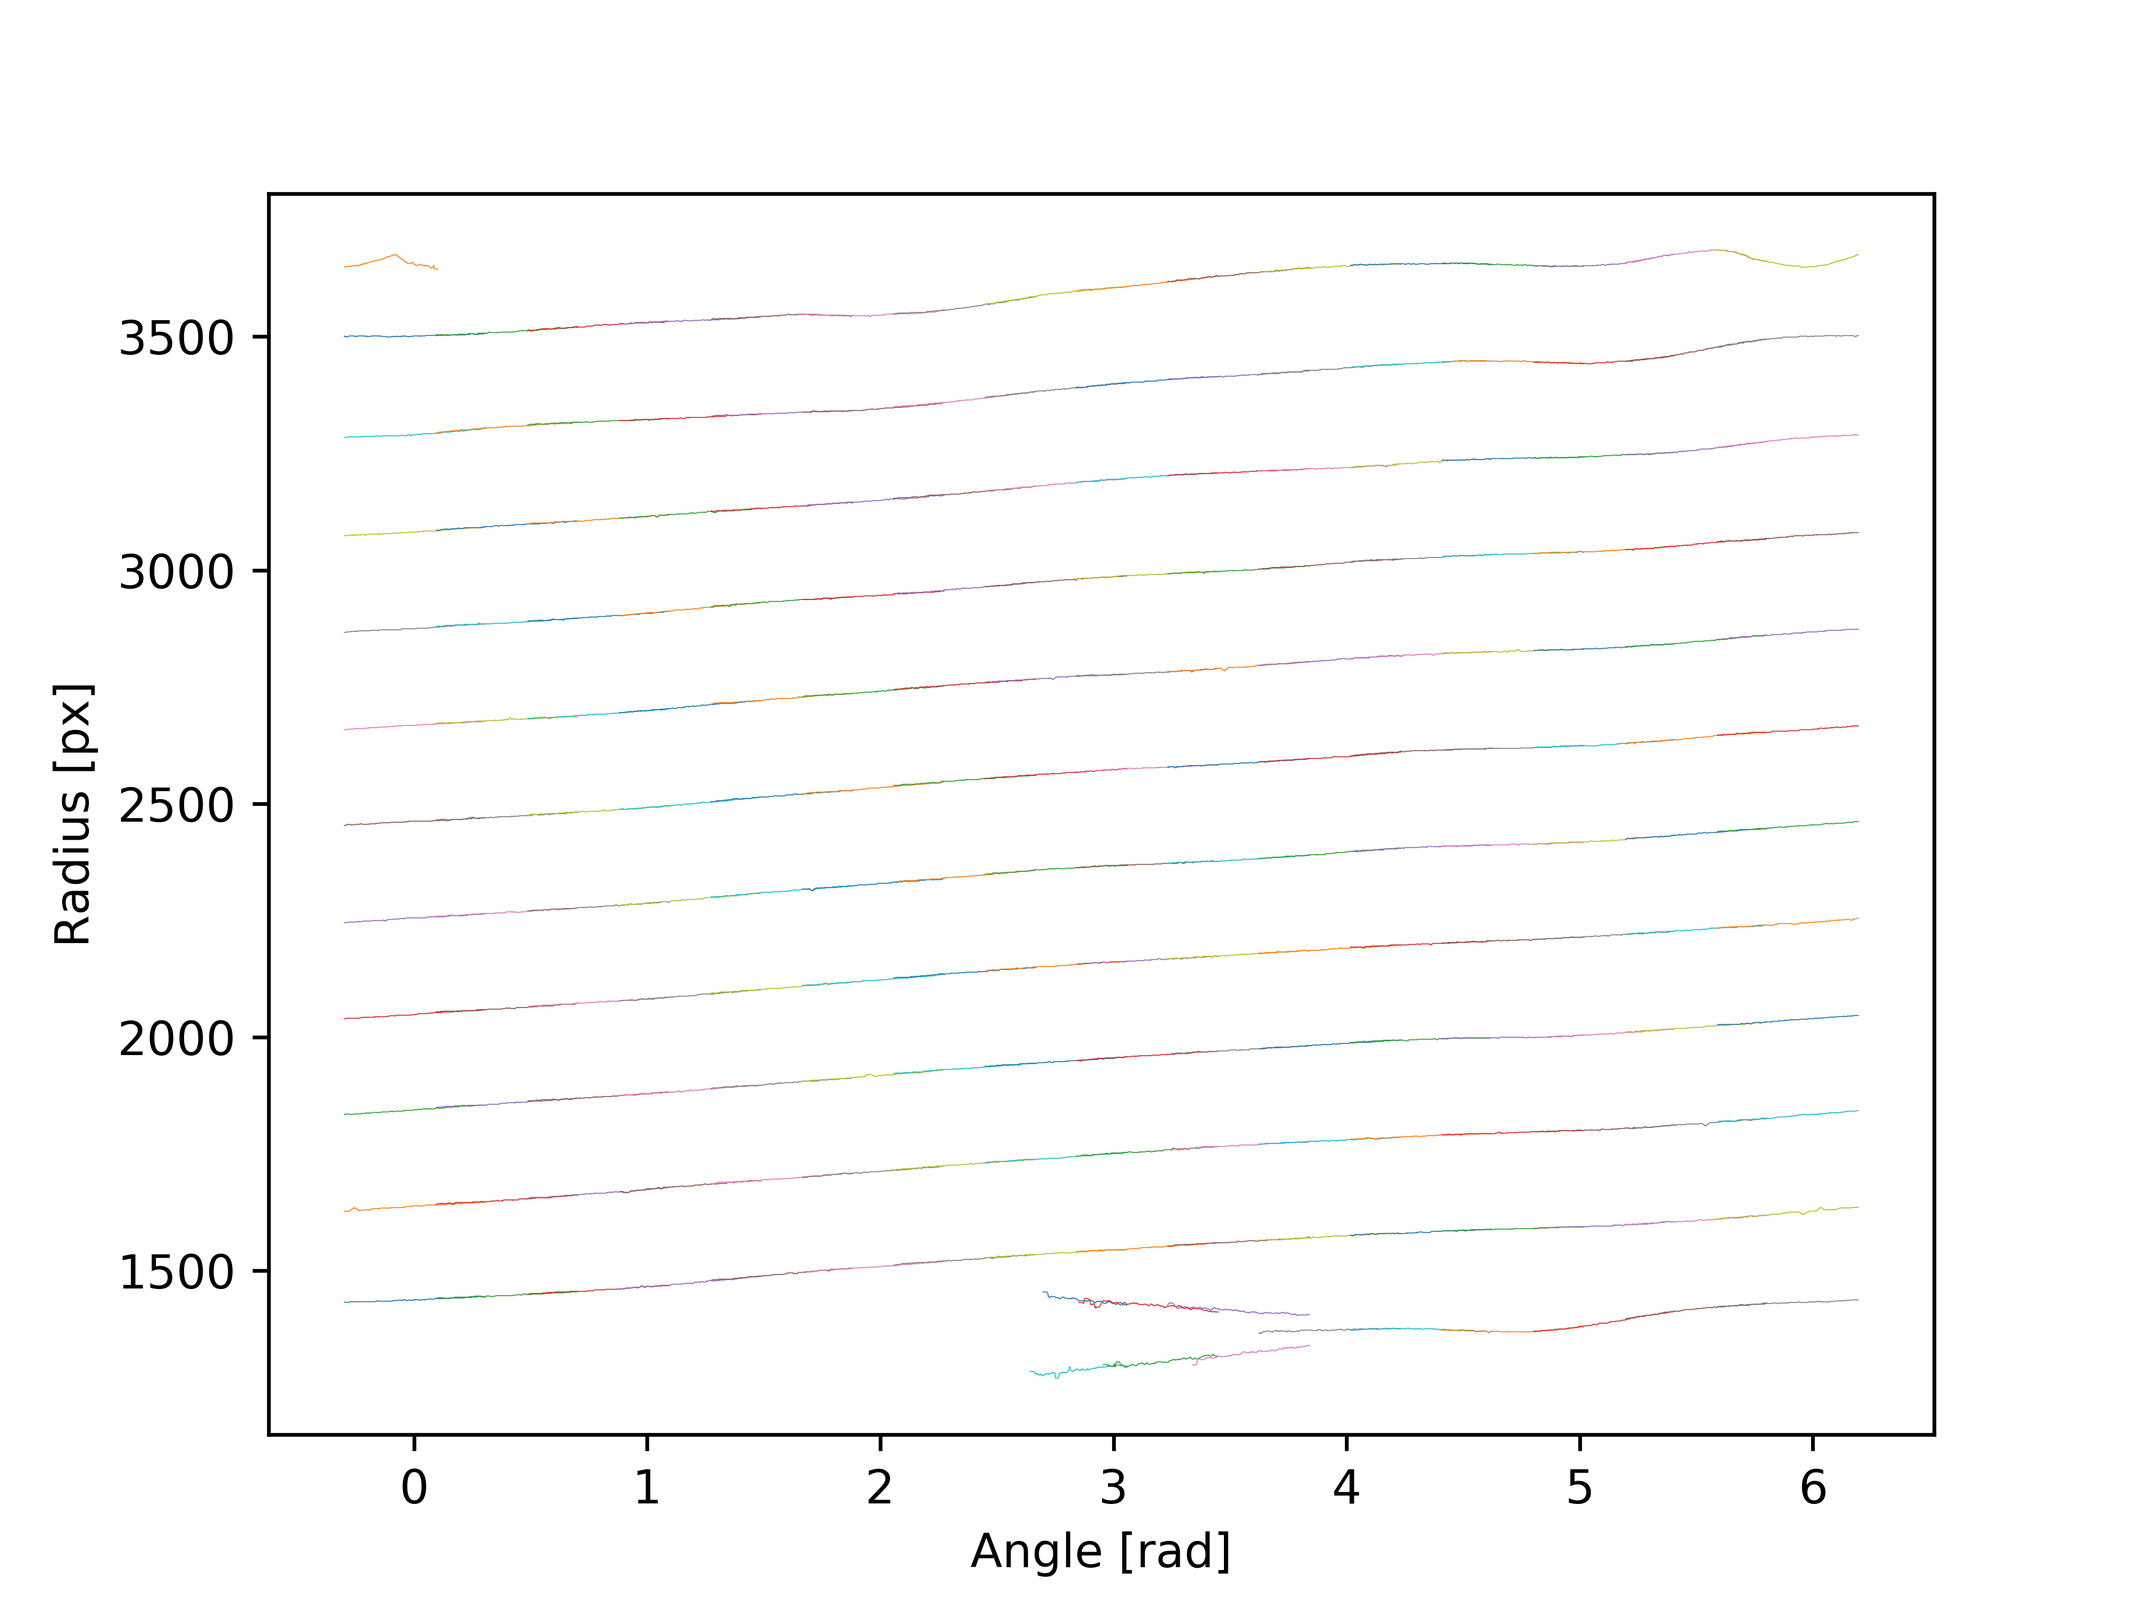
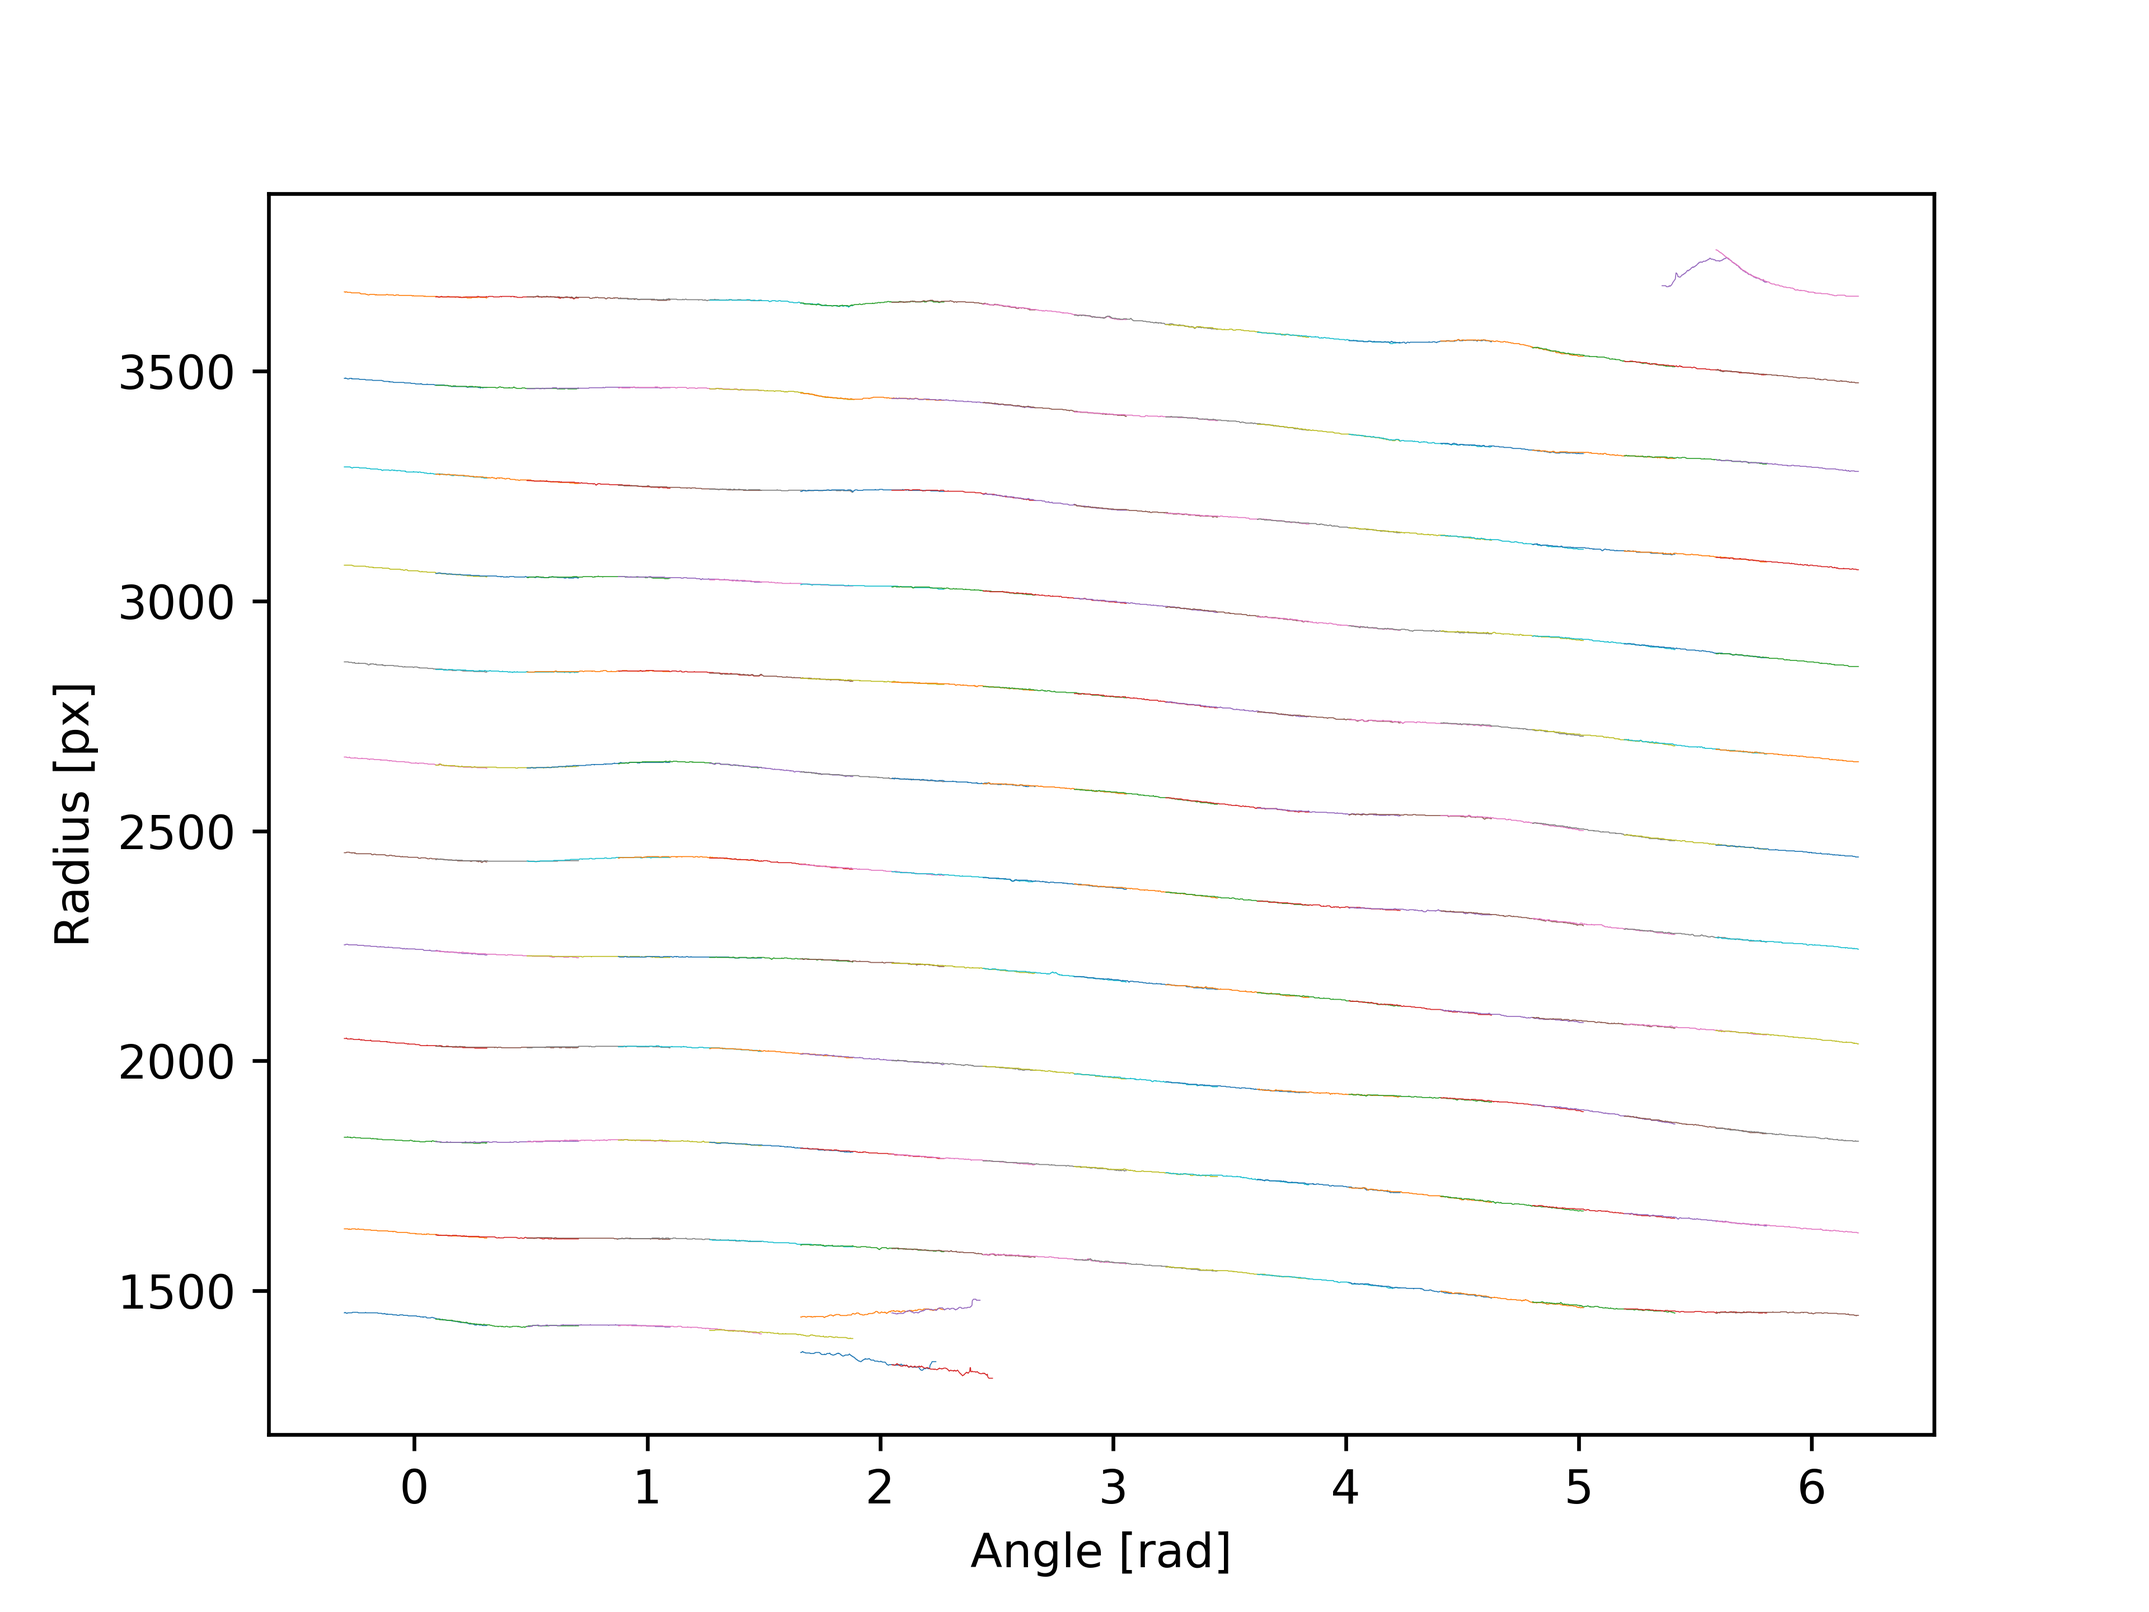
Major Calibration Improvements

diff --git a/sectorImage/core/calibration.py b/sectorImage/core/calibration.py
@@ -72,19 +72,39 @@ class Calibrator:
         src = src.astype(np.uint8, copy=False)
         # print('Blurring')
         im = np.empty(np.shape(src), np.uint8)
+
+        inversionMapping = True
+        if inversionMapping:
+            # c_estimate = (src.shape[1], src.shape[0] // 2)
+            dx = 650
+            c_estimate = (src.shape[1] + dx, src.shape[0] // 2)
+            src = cv2.linearPolar(src, c_estimate, src.shape[1] + dx, cv2.WARP_FILL_OUTLIERS)
+
         # Gaussian Blur to remove fast features
         kernelsize = 5
-        sigma = 5
+        sigma = 1.0
         cv2.GaussianBlur(src=src, ksize=(kernelsize, kernelsize), dst=im, sigmaX=sigma, sigmaY=sigma)
 
         # print('Convolving')
         # Convolving with kernel
-        kheight = 21
+        kheight = 3
         prewitt_kernel_x = np.array([[-1, 0, 1]] * kheight)
-        im = im.astype(np.int16, copy=False)
 
-        # cv2.threshold(src=im, dst=im, thresh=210, maxval=255, type=cv2.THRESH_TOZERO)[1]
+        im = im.astype(np.int16, copy=False)
+        if not inversionMapping:
+            im_y = np.empty(np.shape(src), np.int16)
+            cv2.filter2D(src=im, kernel=np.transpose(prewitt_kernel_x), dst=im_y, ddepth=-1)
+
         cv2.filter2D(src=im, kernel=prewitt_kernel_x, dst=im, ddepth=-1)
+
+        if not inversionMapping:
+            scaling = np.max(im) / np.max(im_y)
+            im += (np.abs(im_y) * scaling).astype(np.int16, copy=False)
+            del im_y
+        else:
+
+            im = cv2.linearPolar(im, c_estimate, im.shape[1] + dx, cv2.WARP_INVERSE_MAP)
+            im *= -1
 
         # cv2.threshold(src=im, dst=im, thresh=0, maxval=255, type=cv2.THRESH_TOZERO)[1]
         # np.abs(im, out=im)
@@ -95,42 +115,96 @@ class Calibrator:
         # thresh = mean_val + 3 * std_val
         thresh = 2 * std_val
         # im *= -1
-        filtered = np.copy(im)
+
         cv2.threshold(src=im, dst=im, thresh=thresh, maxval=1, type=cv2.THRESH_BINARY)
-        morph_kernel = np.ones((5, 5), np.uint8)
-        cv2.morphologyEx(src=im, dst=im, op=cv2.MORPH_OPEN, iterations=1, kernel=morph_kernel)
-        cv2.morphologyEx(src=im, dst=im, op=cv2.MORPH_CLOSE, iterations=1, kernel=morph_kernel)
+
+        # morph_kernel = np.ones((5, 5), np.uint8)
+        filtered = np.copy(im)
+        # morph_kernel_small = np.ones((3, 3), np.uint8)
+        #cv2.morphologyEx(src=im, dst=im, op=cv2.MORPH_OPEN, iterations=1, kernel=morph_kernel)
+        #cv2.morphologyEx(src=im, dst=im, op=cv2.MORPH_CLOSE, iterations=1, kernel=morph_kernel)
+
+        im = im.astype(np.uint8, copy=False)
+        # im = self.skeletonize(im)
+        # cv2.morphologyEx(src=im, dst=im, op=cv2.MORPH_CLOSE, iterations=1, kernel=morph_kernel)
+        #cv2.morphologyEx(src=skeleton, dst=skeleton, op=cv2.MORPH_OPEN, iterations=1, kernel=morph_kernel_small)
 
         pt_x = [np.argmax(line > 0) for i, line in enumerate(im)]
         pt_y = np.arange(0, len(pt_x))
         pt_y = np.array([y for i, y in enumerate(pt_y) if pt_x[i] != 0])
         pt_x = np.array([x for x in pt_x if x != 0])
 
+        # pt_x, pt_y = self.centralSubset(pt_x, pt_y, 0.5)
         if subsampling:
             subregion_size = 10
             n_regions = 100
             pt_x_sub, centroids = self.subsampling(pt_x, subregion_size, n_regions)
-
-        if subsampling:
             data = [pt_x_sub, centroids]
         else:
             data = [pt_x, pt_y]
+        smoothing = False
 
         if smoothing:
             sigma = 11
             data = self.smoothing(data, sigma)
 
-        # plot = True
+        # plot = True
         if plot:
             fig = plt.figure()
             ax = fig.add_subplot(111)
-            ax.plot(data[0], data[1], lw=.2, color='orange')
+            ax.plot(data[0], data[1], lw=.2, color='red', alpha=0.5)
             ax.imshow(filtered)
-            # ax.set_xlim([700, 1200])
+            #ax.set_xlim([5700, 6000])
+            #ax.set_ylim([1200, 2700])
             ax.set_aspect('auto')
             fig.savefig(__location__ + '/../img/out/calibration_new_' +
-                        fn.split('.')[0].split('/')[-1] + '.png', dpi=300)
-        return data
+                        fn.split('.')[0].split('/')[-1] + '.png', dpi=900)
+        return data, src
+
+    def skeletonize(self, img):
+        """
+        Morphological skeletonization of the binary image
+        The image is eroded, dilated and subtracted before being compared with a logical or until one step before
+        the 0-image is obtained. The resulting image is the skeleton.
+
+        Parameters
+        ----------
+        img: 2D array
+            Binary image to be skeletonized
+
+        Returns
+        -------
+        skeleton: 2D array
+            skeletonized image
+        """
+        # t0 = time.time()
+        # Initialize arrays to do computation in place
+        skeleton = np.zeros(img.shape, np.uint8)
+        eroded = np.zeros(img.shape, np.uint8)
+        temp = np.zeros(img.shape, np.uint8)
+
+        kernel = cv2.getStructuringElement(cv2.MORPH_CROSS, (3, 3))
+
+        while True:
+            cv2.erode(img, kernel, eroded)
+            cv2.dilate(eroded, kernel, temp)
+            cv2.subtract(img, temp, temp)
+            cv2.bitwise_or(skeleton, temp, skeleton)
+            img, eroded = eroded, img  # Swap instead of copy
+
+            if cv2.countNonZero(img) == 0:
+                # print('Skeletonization in', str(round(time.time() - t0, 2)), 's')
+                del eroded
+                del temp
+                return skeleton
+
+    def centralSubset(self, x, y, size):
+        npts = len(x)
+        nnew = int(npts * size)
+        xnew = x[(npts - nnew) // 2:(npts + nnew) // 2]
+        ynew = y[(npts - nnew) // 2:(npts + nnew) // 2]
+
+        return xnew, ynew
 
     def subsampling(self, x, n, size):
         """
@@ -177,17 +251,18 @@ class Calibrator:
             smoothed x-y coordinates
         """
         x, y = data
-        # minfiltered = ndimage.minimum_filter1d(x, sigma)
-        filtered = ndimage.gaussian_filter1d(x, sigma, mode='reflect')
-        filtered[:2 * sigma] = x[:2 * sigma]
-        filtered[-2 * sigma:] = x[-2 * sigma:]
-        dnew = filtered, y
+        x = ndimage.minimum_filter1d(x, sigma)
+        x = ndimage.maximum_filter1d(x, 4 * sigma)
+        # filtered = ndimage.gaussian_filter1d(x, sigma, mode='reflect')
+        #filtered[:2 * sigma] = x[:2 * sigma]
+        #filtered[-2 * sigma:] = x[-2 * sigma:]
+        dnew = x, y
 
         plot = False
         if plot:
             fig = plt.figure()
             ax = fig.add_subplot(111)
-            ax.plot(filtered, lw=0.5)
+            # ax.plot(filtered, lw=0.5)
             #ax.plot(x, lw=0.5)
             # ax.set_xlim([900, 2500])
             fig.savefig('smooting_debug.png', dpi=300)
@@ -306,6 +381,15 @@ class Calibrator:
             calibration.append(package)
         return calibration
 
+    def f(self, c, x, y, w=1, fixedR=None):
+        Ri = self.calc_R(x, y, *c)
+        if fixedR is None:
+            delta = Ri - Ri.mean()
+        else:
+            delta = Ri - fixedR
+        delta_w = delta * w
+        return delta_w
+
     def f_multivariate(self, c, *args):
         """
         Objective function for leqast squares regression
@@ -370,6 +454,19 @@ class Calibrator:
 
         return calibration
 
+    def leastsq_circle(self, x, y, w=1, fixedR=None):
+        x_m = np.mean(x)
+        y_m = np.mean(y)
+        center_estimate = x_m, y_m
+        # center, ier = optimize.leastsq(self.f, center_estimate, args=(x, y, w, fixedR))
+        opt = optimize.least_squares(self.f, center_estimate, args=(x, y, w, fixedR), jac='3-point')
+        center = opt['x']
+        xc, yc = center
+        Ri = self.calc_R(x, y, *center)
+        R = Ri.mean()
+        residu = np.sum((Ri - R)**2)
+        return (xc, yc, R, residu)
+
     def computeAll(self, tofile=False):
         """
         Compute all calibration midpoints
@@ -386,7 +483,21 @@ class Calibrator:
         """
         lock = mp.Lock()
         self.comp = Parmap(self.computeOutline, self.fns, lock=lock)
-        self.calibration = self.leastsq_circle_multivariate(self.comp)
+        edgePoints = [cmp[:-1][0] for cmp in self.comp]
+        images = [cmp[-1] for cmp in self.comp]
+        self.calibration = self.leastsq_circle_multivariate(edgePoints)
+        if False:
+            for i in range(len(self.calibration)):
+                fig = plt.figure()
+                ax = fig.add_subplot(111)
+                ax.plot(edgePoints[i][0], edgePoints[i][1], lw=0.1, color='red')
+                circle = plt.Circle((self.calibration[i][0], self.calibration[i][1]),
+                                    self.calibration[i][2], facecolor='none', edgecolor='yellow')
+                ax.imshow(images[i])
+                ax.add_artist(circle)
+                ax.set_xlim([500, 1000])
+                ax.set_aspect('auto')
+                fig.savefig('skeletonDebug_' + str(i) + '.png', dpi=300)
         if tofile:
             np.save(__location__ + '/../data/calibration.npy', np.array(self.calibration))
         return np.array(self.calibration)

diff --git a/sectorImage/core/stitcher.py b/sectorImage/core/stitcher.py
@@ -112,14 +112,14 @@ class Stitcher:
                 #phis = image.angles[np.array(phis)] + dt[i]
                 rs = image.radii[np.array(rs)]
                 axx.plot(rs, lw=0.1)
-                axx.set_ylim([6020, 6040])
                 s = (phis, rs, i, j)
                 segments.append(s)
                 if plot:
                     ax.plot(phis, rs, lw=0.2)
                     # ax.plot(rs * np.cos(phis), rs * np.sin(phis), lw=0.2)
             # segments.append(img_segs)
-        self.startAngle = (2 * np.pi) - pstart
+        # self.startAngle = (2 * np.pi) - pstart
+        self.startAngle = pstart
         figg.savefig(__location__ + '/../img/out/debug.png', dpi=300)
         if plot:
             # ax.set_aspect('equal')
@@ -151,16 +151,6 @@ class Stitcher:
         plot = True
         segments = [Segment(*coords, identity=i) for i, coords in enumerate(segments)]
         # Calibration piece
-        """
-        calib_rs = np.empty(0)
-        calib_phis = np.empty(0)
-        for i in range(len(self.fns)):
-            img_segs = [s for s in segments if s.imgNum == i]
-            calib_seg = max(img_segs, key=operator.attrgetter('bandNum'))
-            calib_rs = np.append(calib_rs, calib_seg.rs)
-            calib_phis = np.append(calib_phis, calib_seg.phis)
-        calib_size_px = np.mean(calib_rs)"""
-
         calib_size_px = np.mean(np.array([x[2] for x in self.calibration]))
 
         # Dimensions of the calibration piece
@@ -293,16 +283,23 @@ class Stitcher:
         # scale = 1
         compR = compR[order] * scale
         compP = chirality * compP[::chirality]
-        if self.startAngle > compP[0] + (2 * np.pi):
+        print(chirality)
+        print(self.startAngle)
+        self.startAngle = chirality * self.startAngle
+        print('sta:', self.startAngle)
+
+        """
+        while self.startAngle > compP[0] + (2 * np.pi):
             print('Underturning Start Angle')
-            self.startAngle -= 2 * np.pi
+            self.startAngle -= 2 * np.pi"""
         start_idx = np.argmax(compP > self.startAngle)
 
         if start_idx == 0:
             print('Unraveling Start Angle')
             self.startAngle += 2 * np.pi
             start_idx = np.argmax(compP > self.startAngle)
-
+        # start_idx = 0
+        print(compP)
         compP = compP[start_idx:]
         compP -= compP[0]
         compP = chirality * compP[::chirality]

diff --git a/sectorImage/core/image.py b/sectorImage/core/image.py
@@ -90,7 +90,7 @@ class Image:
         #c = tuple(midpoint)
         cx, cy = midpoint
         # TODO: Find out why there is this shift
-        shift = 100
+        shift = 0
         cx -= shift
 
         c = (cx, cy)
@@ -110,6 +110,8 @@ class Image:
 
         # Pad the transformed image with the boundary value
         start_idx = np.argmax(transformed > 0, axis=1)
+        start_idx = np.ones((len(transformed)), np.uint8) * 1000
+        transformed[:, :999] = 0
         for i in range(len(transformed)):
             transformed[i][transformed[i] == 0] = transformed[i, start_idx[i]]
 
@@ -125,7 +127,8 @@ class Image:
         transformed[:, int(calibrationCutoff):] = 0
         for i in range(len(transformed)):
             transformed[i][transformed[i] == 0] = transformed[i, int(calibrationCutoff) - 1]
-        # plot = True
+
+        # plot = True
 
         if plot:
             fig = plt.figure()

diff --git a/applied/main.py b/applied/main.py
@@ -10,11 +10,11 @@ from pair import Pair
 
 def main():
     s = Sequence(offsite=True)
-    # s.prime()
-    #pair = s.measure(n=16)
-    # pair.store()
+    s.prime()
+    pair = s.measure(n=16)
+    pair.store()
     # pair.load()
-    pair = Pair('CSAT_RD-OFFSITE.h5', fromFile=True)
+    # pair = Pair('CSAT_RD-OFFSITE.h5', fromFile=True)
     pair.computeGap()
     pair.plot()
     # s.storeSpiral(spiral)

diff --git a/sectorImage/main.py b/sectorImage/main.py
@@ -1,4 +1,4 @@
-from core import image, linewalker, singleImage, stitcher
+from core import image, singleImage, stitcher
 from core.toolkit import pickler
 import numpy as np
 import time
